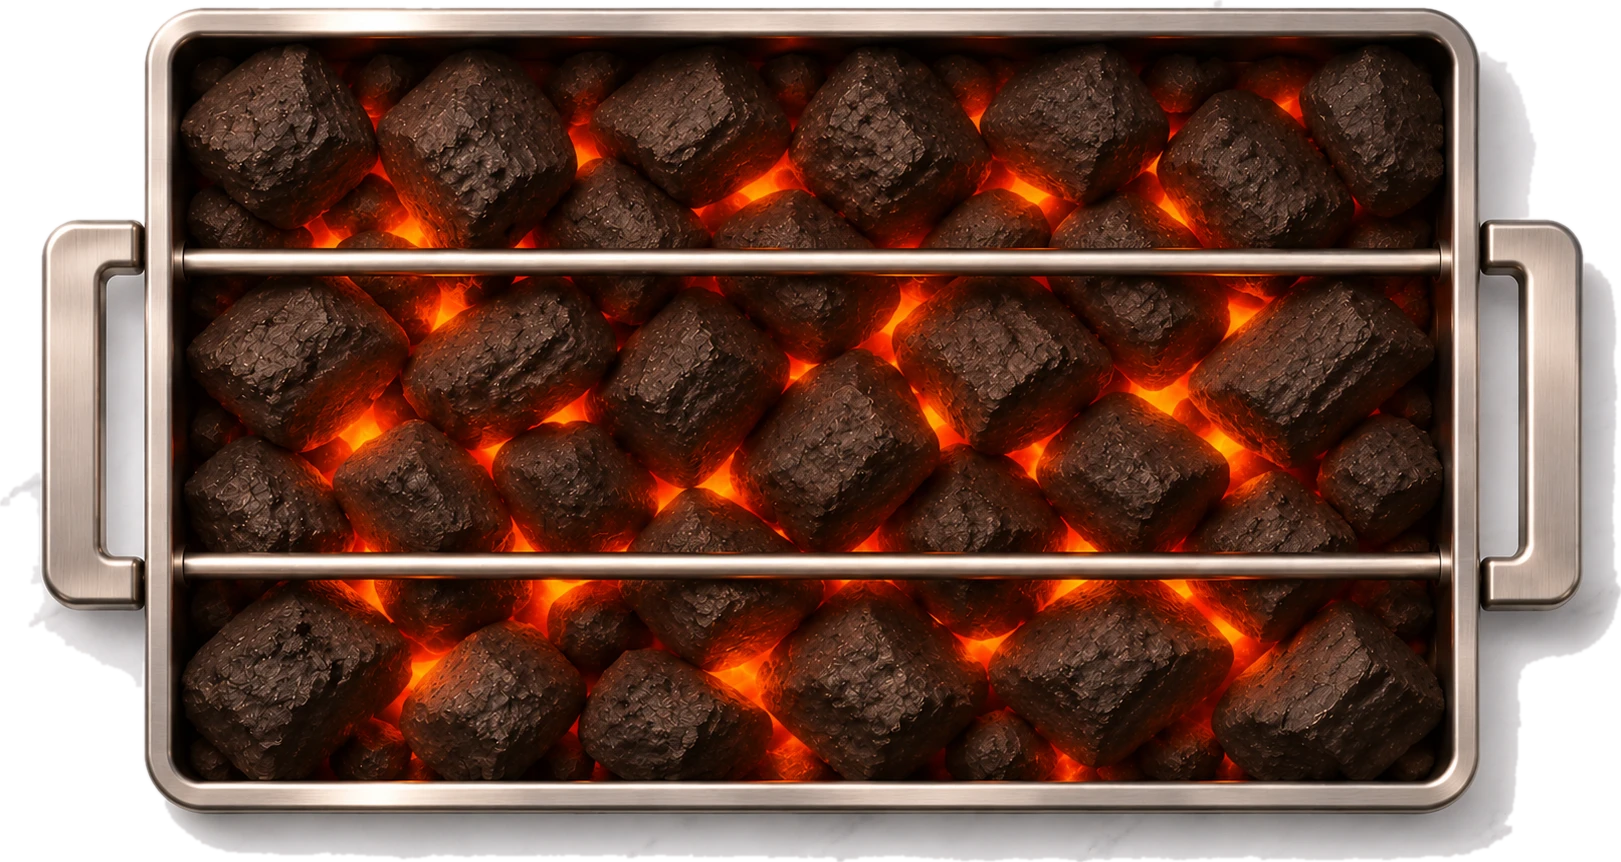
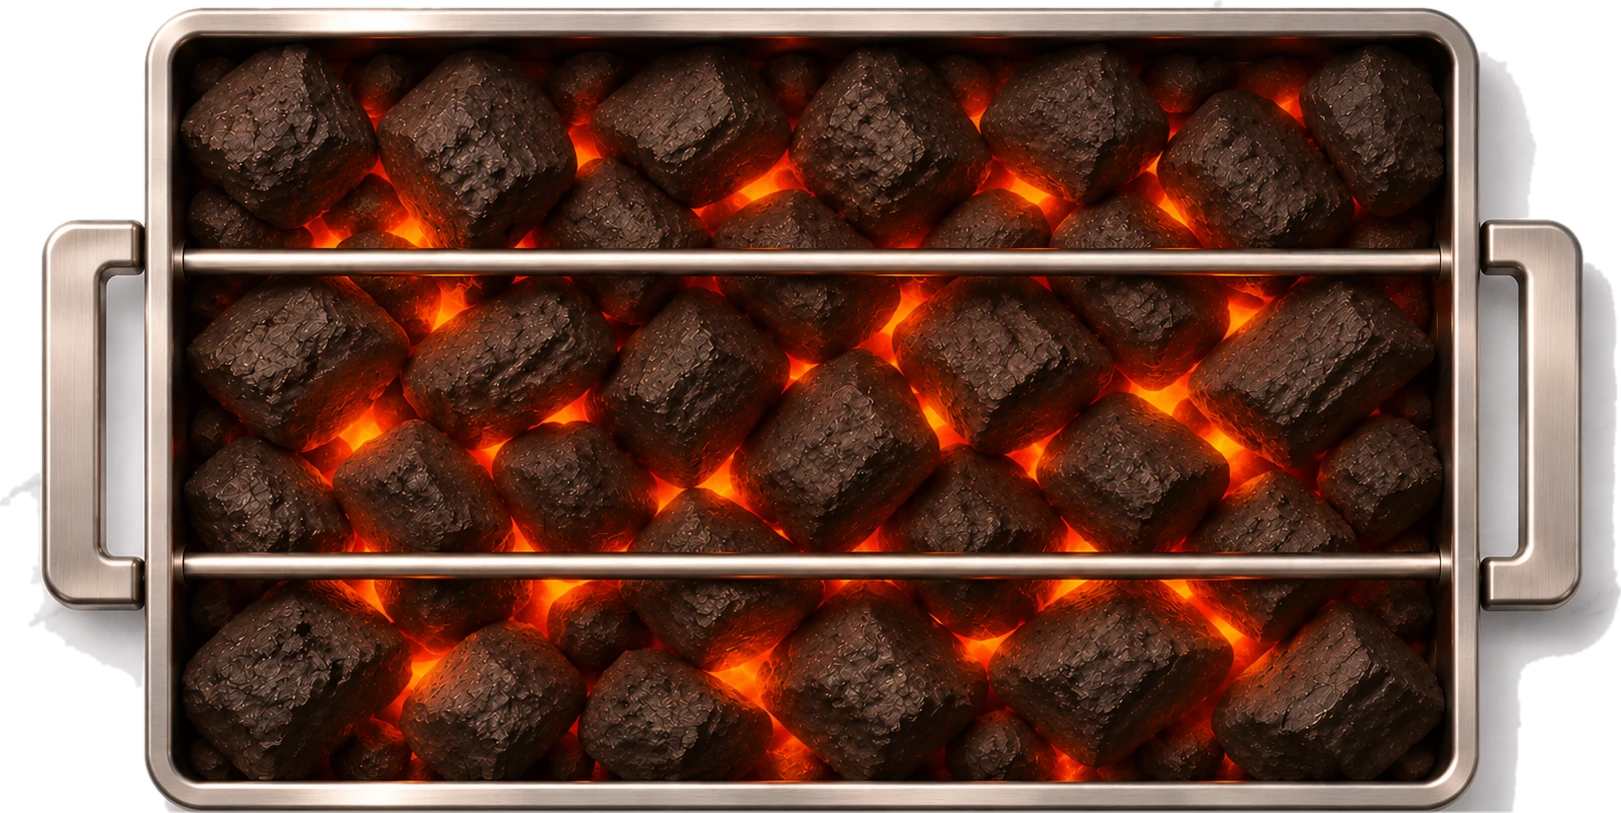
Art cuts: the grill without the shadow ChatGPT painted under it (code draws shadows); the remaining pieces that need no redraw (skewer, chaat's five layers and ten bowls, samosa's eight bowls, sheet and filling); the slotted spoon alone left out (lit from the lower right)
Claude-Session: https://claude.ai/code/session_014xb3kSEqyUTbvHCABDzeLo

diff --git a/build/tools/art/s19_cut_mini.py b/build/tools/art/s19_cut_mini.py
@@ -32,7 +32,18 @@ def grill():
     a = np.where(lab == k, 255, 0).astype(np.uint8)
     ys, xs = np.where(a > 0); box = (xs.min(), ys.min(), xs.max() + 1, ys.max() + 1)
     out = im.convert("RGBA"); out.putalpha(Image.fromarray(a).filter(ImageFilter.GaussianBlur(1)))
-    os.makedirs(OUT + "kit", exist_ok=True); out.crop(box).save(f"{OUT}kit/grill.webp", "WEBP", quality=90)
+    out = out.crop(box)
+    # the shadow ChatGPT painted under the grill (a grey ramp below the near rim; code draws shadows): rows from the bottom up whose
+    # opaque pixels are colourless grey are cut, with a 2 px fade
+    o = np.asarray(out).astype(int); al = o[..., 3] > 128; cut = o.shape[0]
+    for y in range(o.shape[0] - 1, int(o.shape[0] * 0.8), -1):
+        px = o[y][al[y]][:, :3]
+        if len(px) and (px.max(1) - px.min(1)).mean() < 12: cut = y
+        else: break
+    o = o.copy(); o[cut:, :, 3] = 0
+    for k in range(2): o[max(0, cut - 1 - k), :, 3] = (o[max(0, cut - 1 - k), :, 3] * (0.5 + 0.25 * k)).astype(int)
+    out = Image.fromarray(o.astype(np.uint8), "RGBA").crop((0, 0, o.shape[1], cut))
+    os.makedirs(OUT + "kit", exist_ok=True); out.save(f"{OUT}kit/grill.webp", "WEBP", quality=90)
 
 def magenta(src, game, names, maxside, keep=None):
     a = np.asarray(Image.open(src).convert("RGB")).astype(float); al = C.alpha_of(a); rgb = C.despill(a, al)

diff --git a/build/tools/art/s19_cut.py b/build/tools/art/s19_cut.py
@@ -28,7 +28,7 @@ LINES = {
     "K7": ("eggs", ["egg-cracked", "egg-cooked", "egg-overdone", "egg-boiled-half-a", "egg-boiled-half-b"], 360),
     "F7": ("eggs", ["bowl-of-eggs"], 600),
     "K1": ("sekelo", ["skewer-empty"], 1000),
-    "K6b": ("samosa", ["slotted-spoon"], 700),
+    # K6b (the slotted spoon alone) is left out: its light reads from the lower right (artcolour); samosa keeps K6's spoon on its cloth
     "C7": ("chaat", ["layer-tameto"], 800), "C9": ("chaat", ["layer-fudino"], 800), "C10": ("chaat", ["layer-amli"], 800),
     "C11": ("chaat", ["layer-dai"], 800), "C8": ("chaat", ["layer-marcha"], 800),
     "F3": ("chaat", ["bataato", "chana", "dungri", "tameto", "marcha", "kothmir", "sev", "lili-chutney", "amli-chutney", "dai"], 360),

diff --git a/build/reports/tiers/push-c614925ec9.md b/build/reports/tiers/push-c614925ec9.md
@@ -1,0 +1,8 @@
+# check-push (tier 0) on c614925ec9 + uncommitted changes
+
+**FAILED**, 2026-11-10T01:53:53.610Z; 2 min.
+
+
+| | step | what | blocks | result |
+|---|---|---|---|---|
+| FAIL | checks | checks.mjs: every fast check, no browser | yes | FAIL art    79 picture(s): 66 pass, 12 flag, 0 exception, 1 fail; 8 batch(es), 2 with an odd one out (python3 build/tools/art/artcolour.py --changed lists them) |

diff --git a/build/reports/tiers/push-e2f548e51f.md b/build/reports/tiers/push-e2f548e51f.md
@@ -1,0 +1,8 @@
+# check-push (tier 0) on e2f548e51f
+
+**PASSED**, 2026-11-10T01:43:24.869Z; 1.4 min.
+
+
+| | step | what | blocks | result |
+|---|---|---|---|---|
+| ok   | checks | checks.mjs: every fast check, no browser | yes | checks: 13 steps in 82 s (all at once; the longest: unit 82 s, leak 44 s, specs 6 s) |
